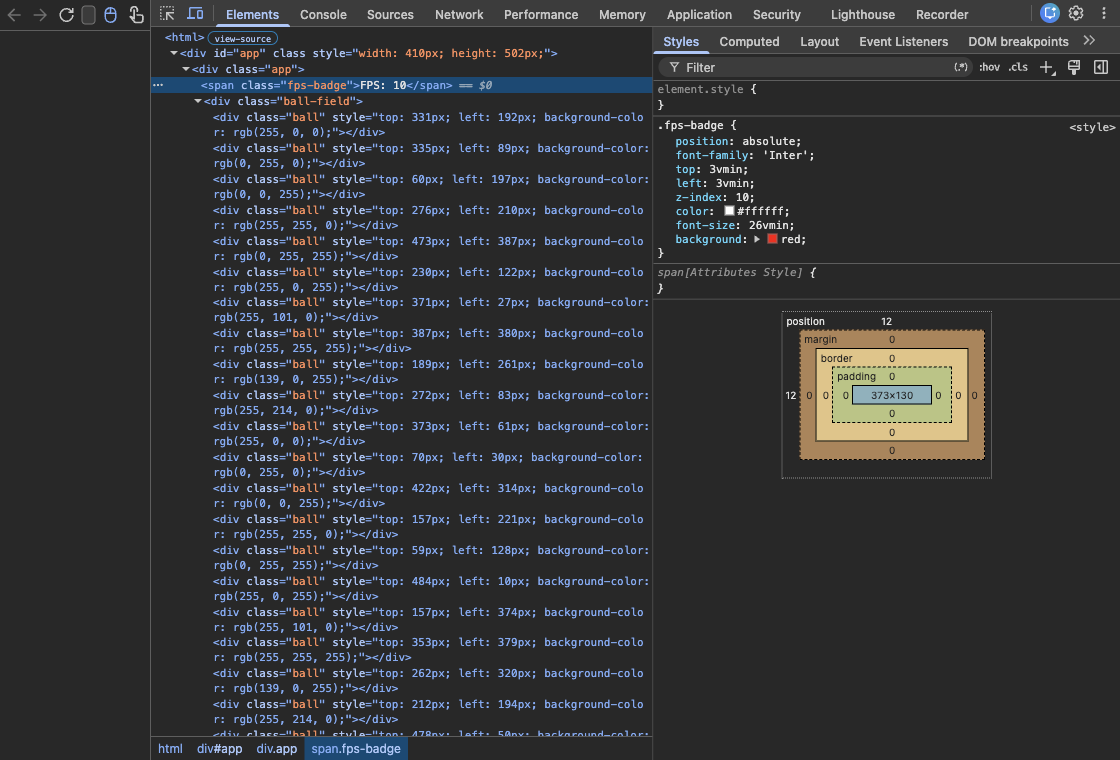
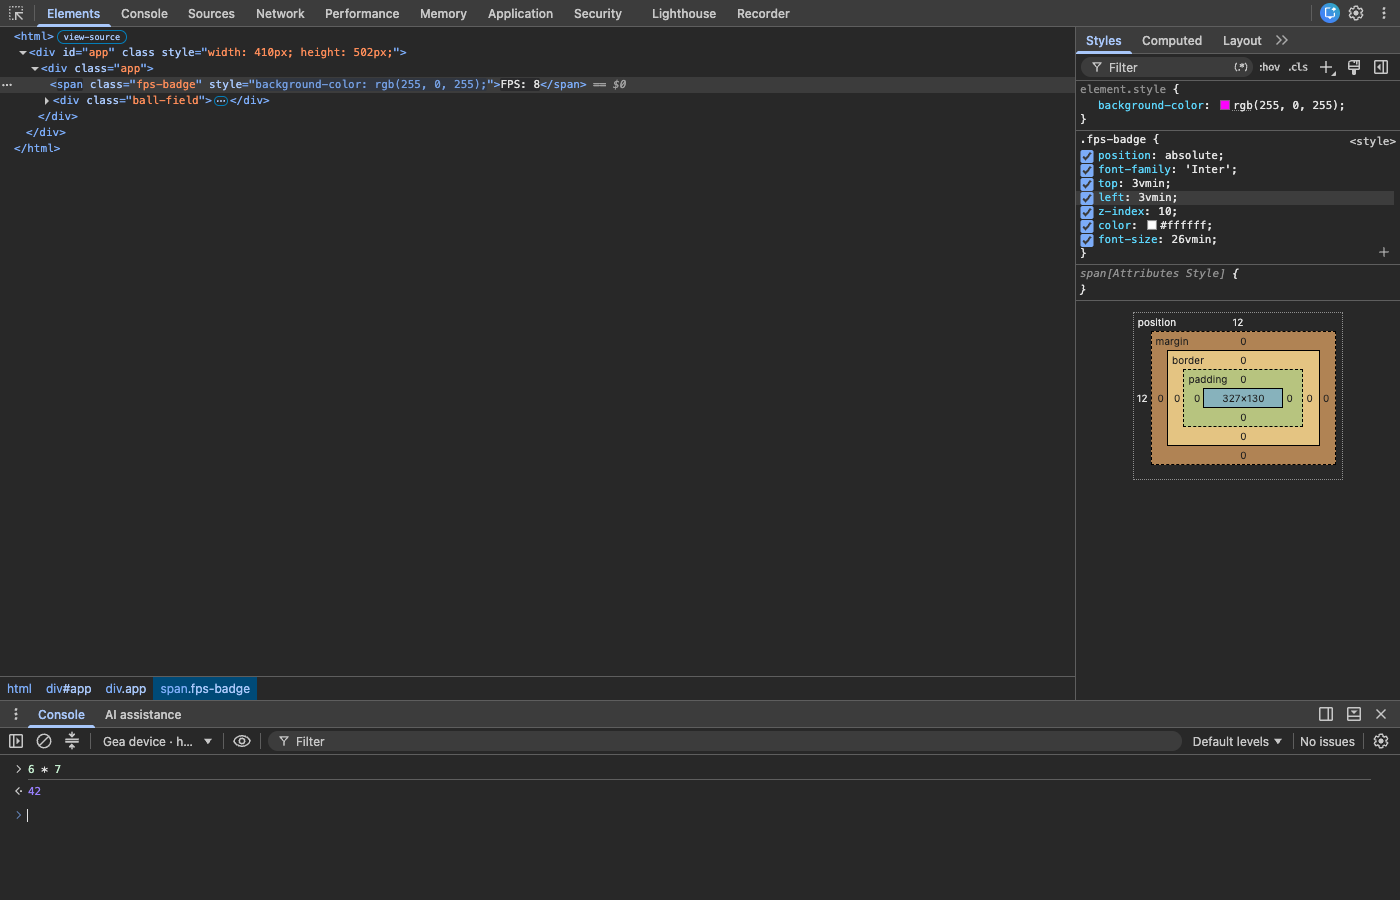
Forward Chrome hover to native device overlays
The remote inspector frontend installs a screencast-only highlighter, swallowing Elements hover before CDP reaches the target. Use the standard frontend for native sessions and send coalesced, lifetime-validated board highlight requests with owner cleanup and a firmware lease. Preserve DOM/CSS snapshots and flush deferred hover after native resume.

Validated 27 unit checks, the native renderer including the snapshot overlay regression, actual Chrome mouse hover/leave, physical AMOLED outline pixels on the FPS badge and full ball field, and native breakpoint evaluation plus source stepping. Companion engine and firmware work remains in the existing core and targets checkouts.

diff --git a/CONTRIBUTING.md b/CONTRIBUTING.md
@@ -11,6 +11,7 @@ use a development app and restart it afterward if necessary.
 | `test/native.integration.test.mjs` | `GEA_DEBUGGER_NATIVE_TEST_APP`, `GEA_DEBUGGER_NATIVE_TEST_EXECUTABLE`, `GEA_DEBUGGER_TEST_SELECTOR` |
 | `test/frontend.integration.test.mjs` | `GEA_DEBUGGER_FRONTEND_TEST_APP`, `GEA_DEBUGGER_FRONTEND_TEST_ENDPOINT`, `GEA_DEBUGGER_TEST_SELECTOR` |
 | `test/device.integration.test.mjs` | `GEA_DEBUGGER_DEVICE_TEST_ENDPOINT`, `GEA_DEBUGGER_TEST_SELECTOR` (visible, styled node) |
+| `test/device-highlight.integration.test.mjs` | `GEA_DEBUGGER_DEVICE_TEST_ENDPOINT`, `GEA_DEBUGGER_TEST_SELECTOR` (visible node, current debug firmware) |
 | `test/device-preview.integration.test.mjs` | `GEA_DEBUGGER_PREVIEW_TEST_APP`, `GEA_DEBUGGER_PREVIEW_TEST_ENDPOINT` |
 | `test/device-source.integration.test.mjs` | `GEA_DEBUGGER_SOURCE_TEST_ENDPOINT`, `GEA_DEBUGGER_SOURCE_TEST_FILE` (original path suffix), `GEA_DEBUGGER_SOURCE_TEST_LINE` (1-based, recurring executable position) |
 
@@ -18,6 +19,8 @@ For the source test, `GEA_DEBUGGER_SOURCE_TEST_COLUMN` is also 1-based; optional
 `GEA_DEBUGGER_SOURCE_TEST_APP` enables verification through Chrome's own Sources
 model. Frontend tests default to the macOS console context; set
 `GEA_DEBUGGER_FRONTEND_TEST_CONSOLE='Gea device · host console'` for boards.
+Set `GEA_DEBUGGER_FRONTEND_TEST_HIGHLIGHT=1` with a visible class/id selector
+to verify real Elements mouse hover and leave against current board firmware.
 Screenshot output is optional in native/frontend tests through their
 `GEA_DEBUGGER_*_TEST_SCREENSHOT` variables; use an existing build output path.
 

diff --git a/README.md b/README.md
@@ -131,8 +131,13 @@ Choose a view from the preview's selector; the browser remembers your choice.
 ![Device pixels](https://raw.githubusercontent.com/geastack/debugger/main/docs/screenshots/device.png)
 ![Structured DOM mirror](https://raw.githubusercontent.com/geastack/debugger/main/docs/screenshots/mirror.png)
 
-Selection highlights follow native bounds in both previews. Physical-board
-highlight overlays and preview click/touch forwarding are not implemented.
+Hovering or selecting an element highlights its live bounds in both previews
+and on boards with current debug firmware. The native outline leaves DOM/CSS
+unchanged, follows motion and clears on hover-out or disconnect. A short device
+lease also clears it after an abrupt host exit. Native highlights update after
+resume when the CPU is paused. Drawing the overlay requires full repaint while
+visible; use `--debug-fps 10` or `30` to leave room for inspection.
+Preview click/touch forwarding is not implemented.
 
 ## Library and development
 
